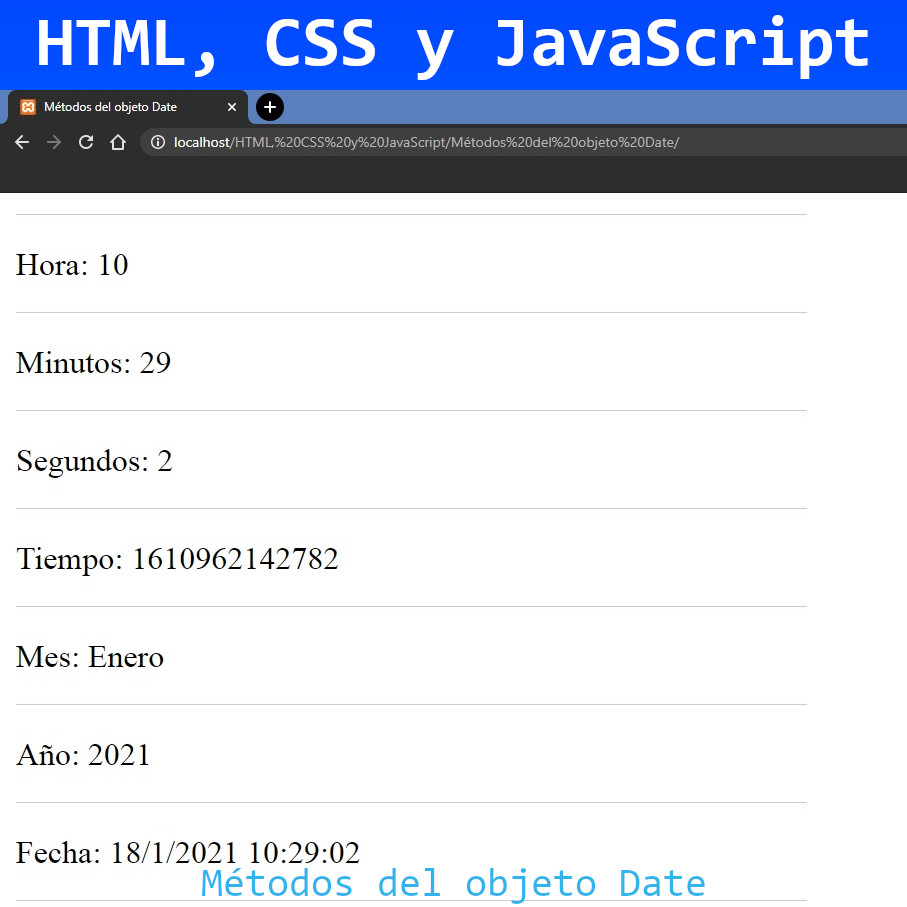
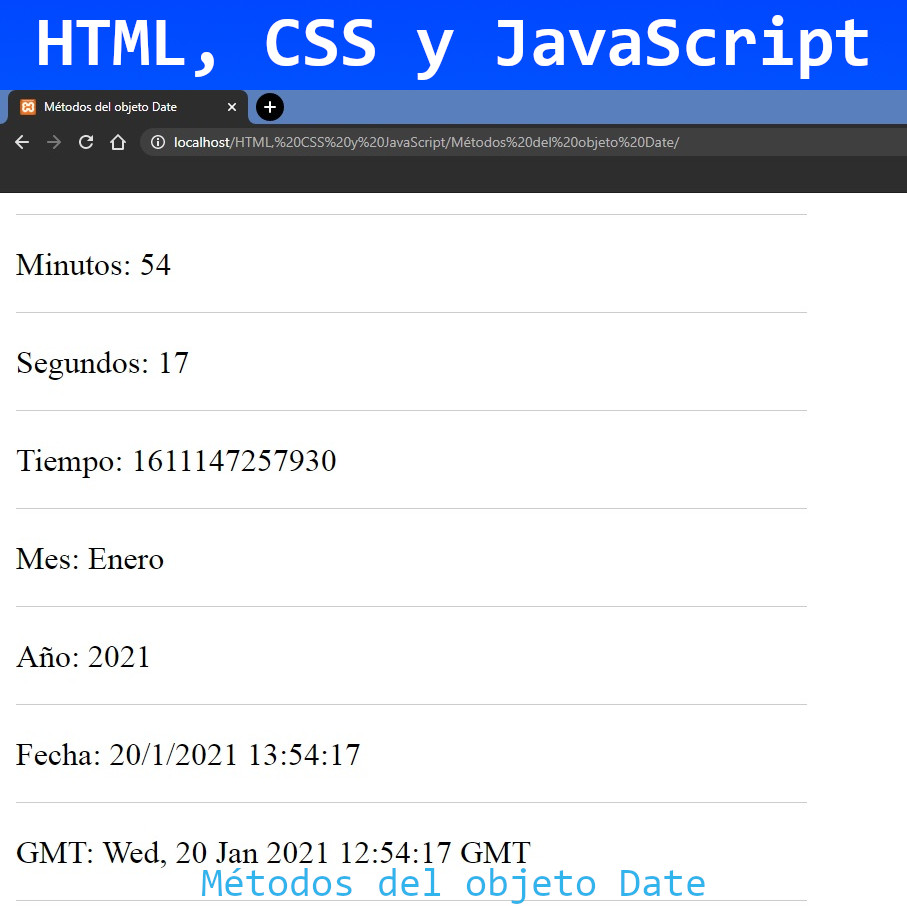
Métodos del objeto Date
Métodos del objeto Date en JavaScript

diff --git a/HTML, CSS y JavaScript/Métodos del objeto Date/js/funciones.js b/HTML, CSS y JavaScript/Métodos del objeto Date/js/funciones.js
@@ -71,3 +71,10 @@ var fecha2 = fecha.toLocaleString();
 document.write("Fecha: "+fecha2);
 // SALTO DE LÍNEA
 document.write("<hr>");
+// VER GMT
+// coger GMT de la fecha actual
+var gmt = fecha.toGMTString();
+// MOSTRAR EN PANTALLA
+document.write("GMT: "+gmt);
+// SALTO DE LÍNEA
+document.write("<hr>");
